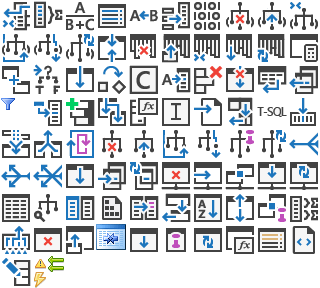
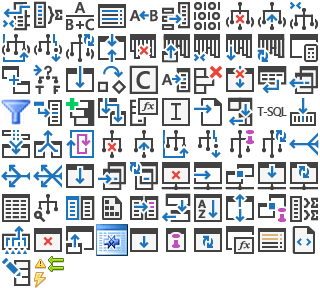
Fit plans to their own width and keep hidden tooltips out of the layout
The rendering review measured fitWidth scaling plans more than needed, and
plans that already fit, because it divided by the container's scrollWidth,
which counts the hidden tooltips of the rightmost nodes. Those tooltips also
gave every fitted container a scrollbar into empty space. With JS tooltips the
tooltip shown is a copy on the body, so the originals now leave the layout,
and the scale is computed on the plan's own width, then corrected once on the
width actually drawn, since text does not shrink exactly with zoom. The
statement text stuck out of the plan by the header's padding.

The native title of a scaled plan showed over the operator tooltips and is
gone. The Filter icon of the Microsoft set is 16 px and filled a corner of its
cell: the sprite script now scales any icon to the cell. The Forgejo renderer
escapes every "<" of the plan, which also covers "<!--" in a script.

Changed region(s): [[0.2812, 0.7812, 0.4062, 0.9062], [0.0, 0.3438, 0.0938, 0.4375]]

diff --git a/src/index.ts b/src/index.ts
@@ -49,11 +49,18 @@ function showPlan(container: Element, planXml: string, options?: Options) {
  * toggle between that size and full size. CSS zoom keeps the lines and tooltips aligned.
  */
 function fitToWidth(container: Element, root: HTMLElement, minScale: number) {
-    let scale = Math.max(minScale, Math.min(1, container.clientWidth / container.scrollWidth));
+    // The plan's own width: the container's scrollWidth also counts hidden CSS tooltips
+    let scale = Math.max(minScale, Math.min(1, container.clientWidth / root.offsetWidth));
     if (!(scale < 1)) return;
     let style = <any>root.style;
     style.zoom = scale;
-    root.title = "Click to toggle full size";
+    // Text does not shrink exactly with zoom: correct once on the width actually drawn
+    let drawn = root.getBoundingClientRect().width;
+    if (drawn > container.clientWidth - 2) {
+        scale = Math.max(minScale, scale * (container.clientWidth - 2) / drawn);
+        style.zoom = scale;
+    }
+    // No title: the browser would show it over the operator tooltips
     root.style.cursor = "zoom-in";
     root.addEventListener("click", () => {
         let full = style.zoom != "1";

diff --git a/test/options_test.ts b/test/options_test.ts
@@ -86,6 +86,22 @@ describe("Options", () => {
             }
         });
 
+        it("Scales on the plan's width, not on the tooltips hidden past its right edge", () => {
+            let tooltips = document.head.appendChild(document.createElement("style"));
+            tooltips.textContent = ".qp-root, .qp-node { position: relative; } .qp-tt { position: absolute; left: 0; width: 6000px; }";
+            let container = attached(300);
+            try {
+                QP.showPlan(container, plan.computeScalarPassThrough, { fitWidth: 0.1, jsTooltips: false });
+                let zoom = parseFloat(zoomOf(container));
+                assert.isAtLeast(zoom, 0.19);
+                assert.isAtMost(zoom, 0.2);
+                assert.isAtMost((<HTMLElement>container.querySelector(".qp-root")).getBoundingClientRect().width, 300);
+            } finally {
+                container.remove();
+                tooltips.remove();
+            }
+        });
+
         it("Leaves alone a plan that fits, and any plan when the option is not set", () => {
             let wide = attached(5000);
             let narrow = attached(300);

diff --git a/css/qp.css b/css/qp.css
@@ -148,7 +148,8 @@ div[class|='qp-icon'] {
 }
 
 .qp-statement-header-row > div {
-    width: 100%;
+    /* Absolute, it starts after the header's padding: 100% would stick out of the plan */
+    width: calc(100% - 0.6em);
     position: absolute;
     overflow: hidden;
     text-overflow: ellipsis;
@@ -229,6 +230,12 @@ div.qp-node .qp-tt,
 
 div.qp-node:hover .qp-tt {
     visibility: visible;
+}
+
+/* With JS tooltips the tooltip shown is a copy on the body: the hidden originals leave
+   the layout, where they widened the scrollable area of the plan past its last node */
+.qp-noCssTooltip div.qp-node .qp-tt {
+    display: none;
 }
 
 .qp-tt table {

diff --git a/tools/sprite-microsoft.py b/tools/sprite-microsoft.py
@@ -120,7 +120,11 @@ def main():
             for j, im in enumerate(overlays.values()):
                 sprite.paste(im, (x + (j % 2) * 16, y + (j // 2) * 16))
         else:
-            sprite.alpha_composite(clear_background(Image.open(icons_dir / f"icon-{f}.png").convert("RGBA")), (x, y))
+            icon = clear_background(Image.open(icons_dir / f"icon-{f}.png").convert("RGBA"))
+            if icon.size != (CELL, CELL):
+                # A few sources are 16 px (Filter): drawn as is, they fill a corner of the cell
+                icon = icon.resize((CELL, CELL), Image.LANCZOS)
+            sprite.alpha_composite(icon, (x, y))
     sprite.save(root / "css" / "qp_icons.png", optimize=True)
 
     size = f"{COLS * SHOWN:g}px {rows * SHOWN:g}px"
